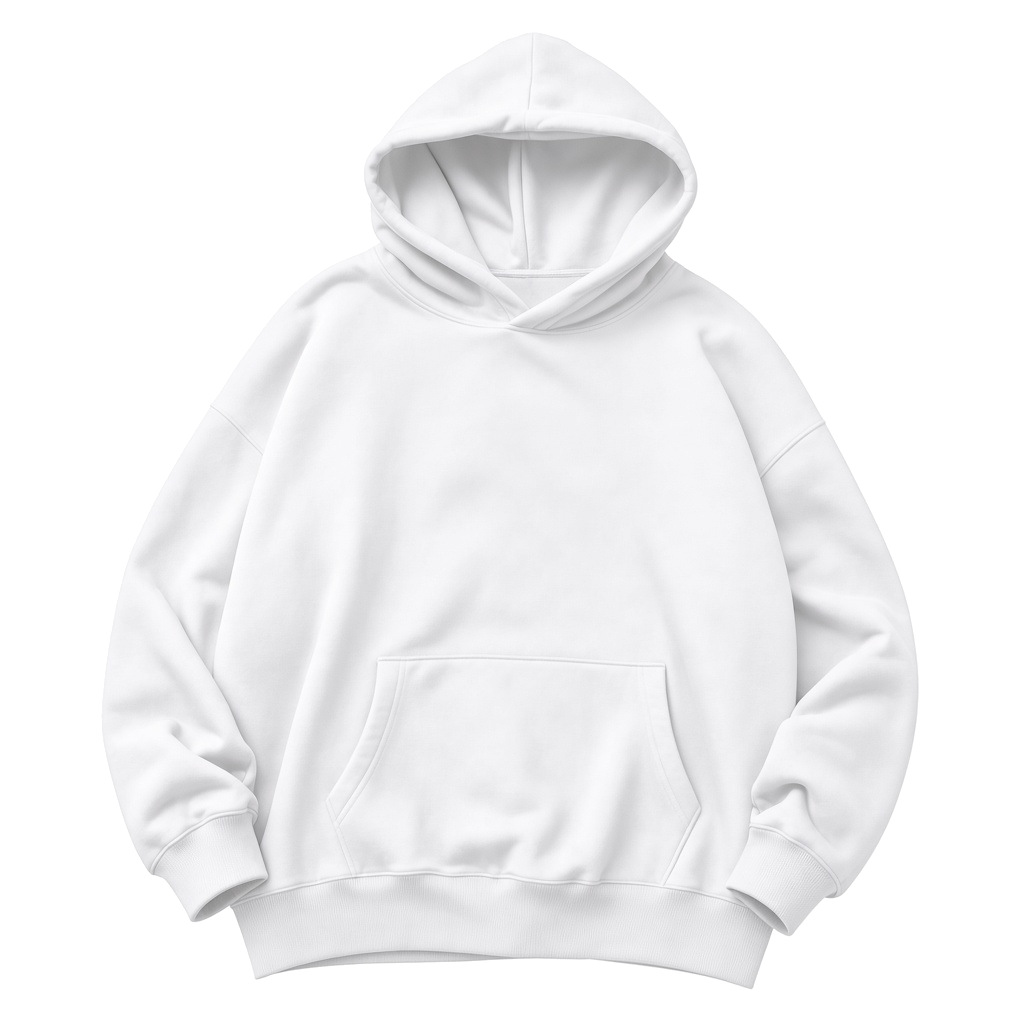
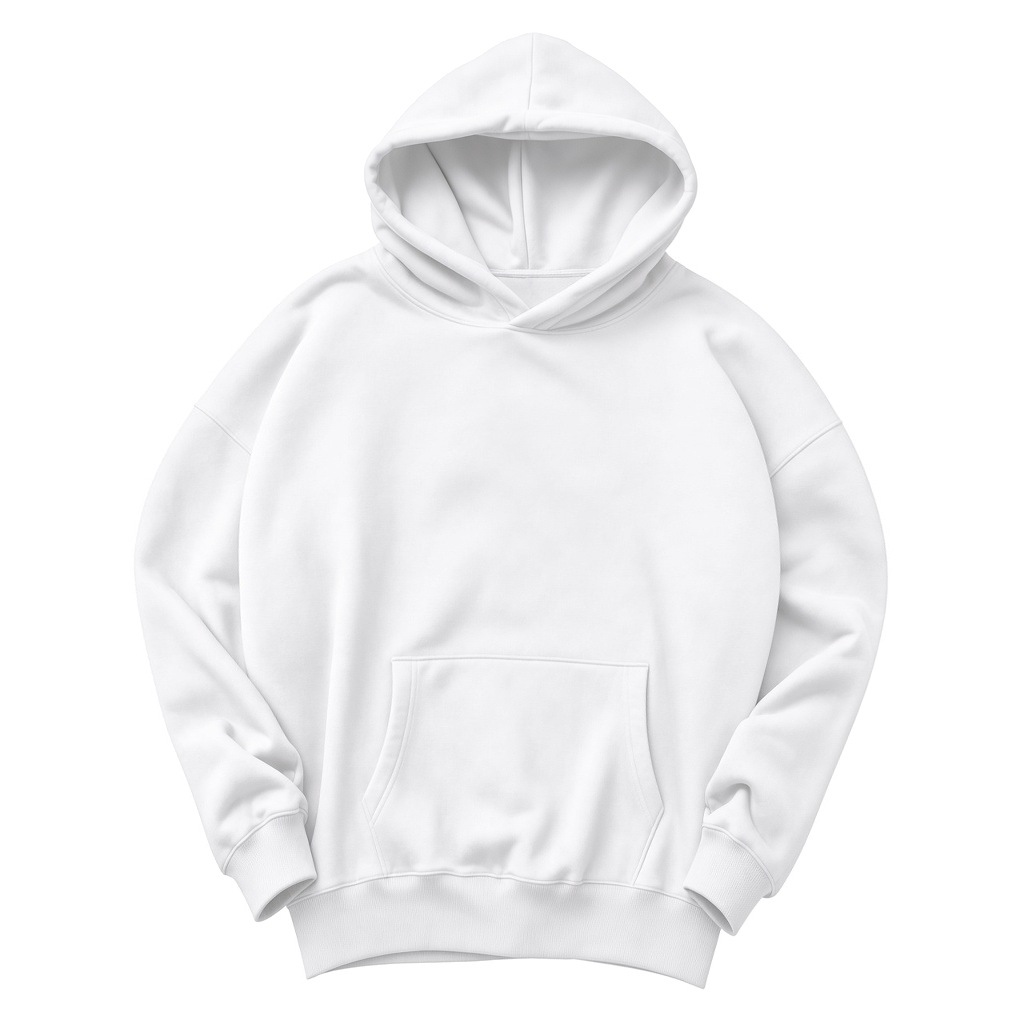
Give the atelier hoodie an athletic taper.
Broaden the shoulders slightly and narrow the waist and hem on the black, grey, and white front and back photos so the cut reads less boxy.

diff --git a/web/src/app/products/[slug]/page.tsx b/web/src/app/products/[slug]/page.tsx
@@ -537,7 +537,7 @@ export default async function ProductDetailPage({ params }: { params: Promise<{ 
               : apparelItem?.slug === "voronyz-oversized-tee"
               ? "Cut oversized on purpose — soft hand-feel, roomy through the body and sleeves."
               : apparelItem?.slug === "voronyz-core-hoodie"
-              ? "Heavyweight fleece with a clean, modern cut. Swipe to the second photo for the back."
+              ? "Heavyweight fleece with an athletic taper: broad shoulders, narrower waist. Swipe to the second photo for the back."
               : apparelItem?.slug === "voronyz-stickers"
               ? "Kiss-cut weatherproof vinyl with three VORONYZ logo strips."
               : isApparel && apparelItem?.comingSoon

diff --git a/web/src/lib/apparel.ts b/web/src/lib/apparel.ts
@@ -217,7 +217,7 @@ export const APPAREL_CATALOG: ApparelCatalogItem[] = [
     slug: "voronyz-core-hoodie",
     subcategory: "sweaters",
     name: "The Atelier Hoodie",
-    description: "Heavyweight fleece hoodie with a clean, modern cut.",
+    description: "Heavyweight fleece hoodie with an athletic taper — broad through the shoulders, narrower at the waist.",
     priceCents: 7800,
     colors: ["black", "grey", "white"],
     sizes: [...APPAREL_SIZES],
